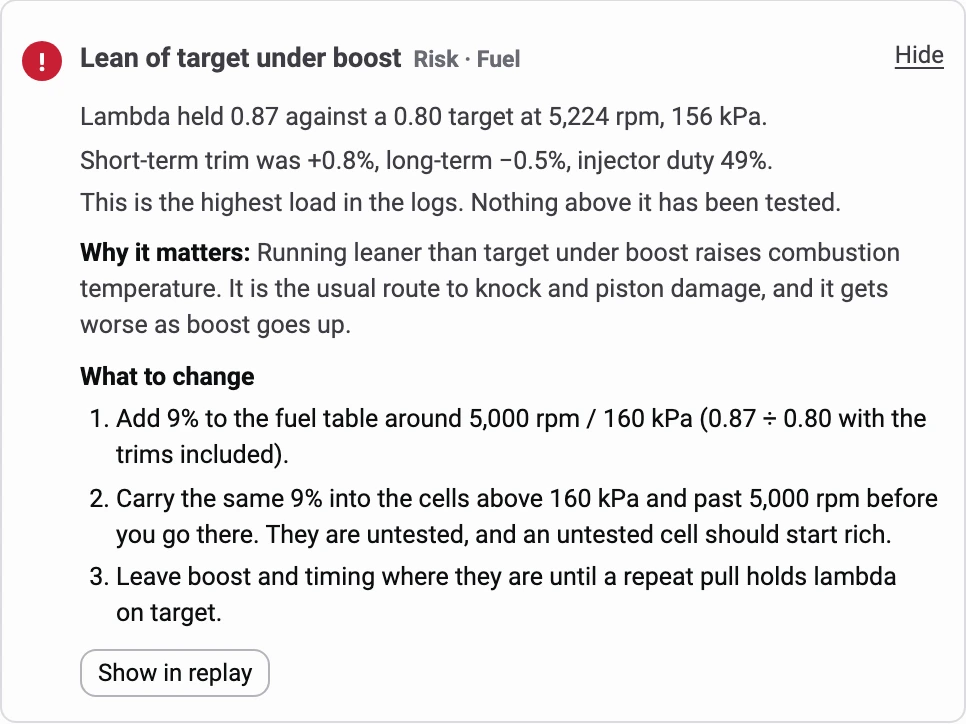
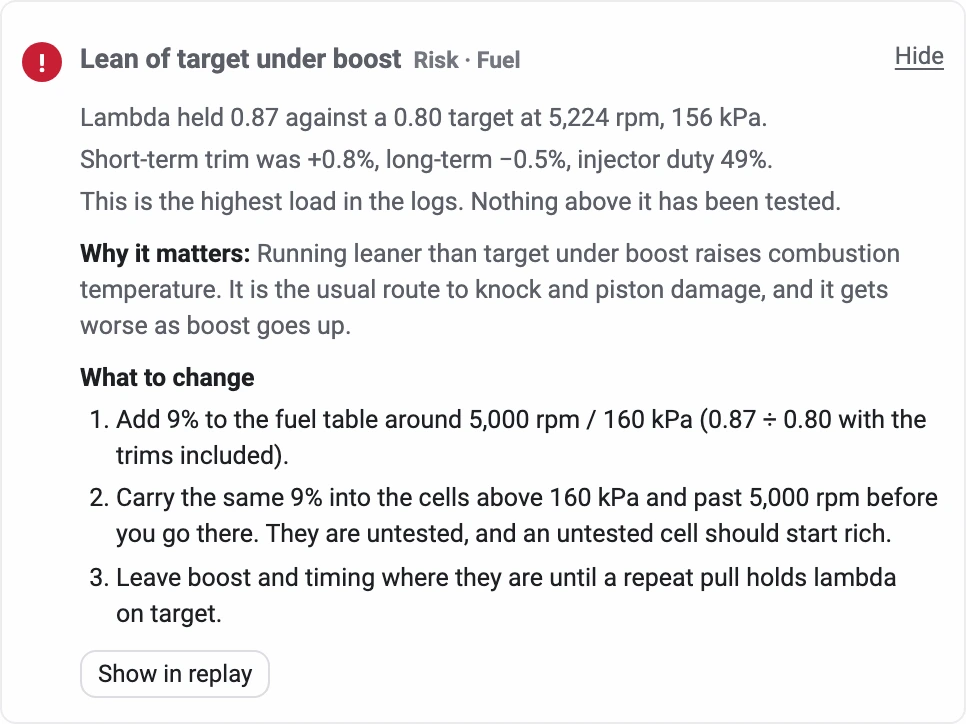
Quieter look for the dashboard: soft neutral greys, pale selected chips
The greys were too intense and the app still read as brutalist. The owner
chose a soft neutral look from three rendered options. Greys are lighter,
a selected control is a pale chip in place of a solid black fill, the
filled button is charcoal, panel titles and figures are Bold, and panels
drop their border for one faint shadow. The page takes the same greys, and
DESIGN.md records the change.

diff --git a/src/styles.css b/src/styles.css
@@ -1,13 +1,16 @@
-/* Colours, type and corners follow DESIGN.md: neutral surfaces, Lato for titles and figures, Roboto for text, corners of 6, 8 and 12px, no shadows.
+/* Colours, type and corners follow DESIGN.md: quiet neutral greys, Lato for titles and figures, Roboto for text, corners of 6, 8 and 12px, pale chips for selected controls.
    Layout: a sticky left rail (logs and pulls) beside a scrolling work column: power chart and table, findings, then replay.
    Vehicle settings live in a dialog. Colours are tokens so light and dark stay in step with the canvas drawing code. */
 :root{
-  --bg:#f4f4f4; --surface:#fcfcfc; --inset:#ececee;
-  --ink:#0d0e10; --ink-2:#3d3d43; --ink-3:#6a6a72;
-  --grid:#dcdce0; --rule:#b4b4bb;
+  --bg:#f6f6f7; --surface:#fdfdfe; --inset:#f1f1f3;
+  --ink:#1d1f23; --ink-2:#5b5e66; --ink-3:#74777f;
+  --grid:#ececef; --rule:#dcdce1;
+  /* a selected control is a pale chip, the filled button is charcoal, and a panel sits on a faint shadow with no border */
+  --sel:#e8e9ed; --sel-ink:#1d1f23; --primary:#2a2c31; --on-primary:#fdfdfe;
+  --panel-edge:transparent; --panel-shadow:0 1px 2px rgb(24 26 30 / .05),0 10px 28px -18px rgb(24 26 30 / .2);
   --run-a:#2a78d6; --run-b:#eb6834; --run-c:#1baf7a;
   /* --crit is the system's redline: risk in findings, and the red bar that ends the header's rule */
-  --good:#0ca30c; --warn:#fab219; --crit:#c81e33; --note:#6a6a72;
+  --good:#0ca30c; --warn:#fab219; --crit:#c81e33; --note:#74777f;
   --seq-lo:#cde2fb; --seq-hi:#0d366b;
   --div-neg:#2a78d6; --div-mid:#e8e8ea; --div-pos:#e34948;
   --font-display:"Lato","Helvetica Neue",Arial,system-ui,sans-serif;
@@ -15,22 +18,26 @@
 }
 @media (prefers-color-scheme: dark){
   :root:not([data-theme="light"]){
-    --bg:#0d0e10; --surface:#17181b; --inset:#222327;
-    --ink:#f4f4f5; --ink-2:#b9b9be; --ink-3:#85858c;
-    --grid:#2a2c31; --rule:#45474e;
+    --bg:#111214; --surface:#1a1b1e; --inset:#232428;
+    --ink:#ececef; --ink-2:#a8abb2; --ink-3:#83868e;
+    --grid:#26272b; --rule:#383a40;
+    --sel:#2e3036; --sel-ink:#f1f1f3; --primary:#e4e5e9; --on-primary:#1d1f23;
+    --panel-edge:#26272b; --panel-shadow:none;
     --run-a:#3987e5; --run-b:#d95926; --run-c:#199e70;
-    --good:#0ca30c; --warn:#fab219; --crit:#e0263c; --note:#85858c;
+    --good:#0ca30c; --warn:#fab219; --crit:#e0263c; --note:#83868e;
     --seq-lo:#0d366b; --seq-hi:#cde2fb;
     --div-neg:#3987e5; --div-mid:#33343a; --div-pos:#e66767;
     color-scheme:dark;
   }
 }
 :root[data-theme="dark"]{
-  --bg:#0d0e10; --surface:#17181b; --inset:#222327;
-  --ink:#f4f4f5; --ink-2:#b9b9be; --ink-3:#85858c;
-  --grid:#2a2c31; --rule:#45474e;
+  --bg:#111214; --surface:#1a1b1e; --inset:#232428;
+  --ink:#ececef; --ink-2:#a8abb2; --ink-3:#83868e;
+  --grid:#26272b; --rule:#383a40;
+  --sel:#2e3036; --sel-ink:#f1f1f3; --primary:#e4e5e9; --on-primary:#1d1f23;
+  --panel-edge:#26272b; --panel-shadow:none;
   --run-a:#3987e5; --run-b:#d95926; --run-c:#199e70;
-  --good:#0ca30c; --warn:#fab219; --crit:#e0263c; --note:#85858c;
+  --good:#0ca30c; --warn:#fab219; --crit:#e0263c; --note:#83868e;
   --seq-lo:#0d366b; --seq-hi:#cde2fb;
   --div-neg:#3987e5; --div-mid:#33343a; --div-pos:#e66767;
   color-scheme:dark;
@@ -56,10 +63,10 @@ ol,ul{list-style:none}
 .rail{position:sticky;top:calc(env(safe-area-inset-top,0px) + 14px);max-height:calc(100vh - 28px);max-height:calc(100dvh - 28px);overflow-y:auto;border-radius:12px;overscroll-behavior:contain}
 .main{grid-template-columns:minmax(0,1.2fr) minmax(0,1fr)}
 .main .full{grid-column:1 / -1}
-.panel{background:var(--surface);border:1px solid var(--grid);border-radius:12px;padding:14px;min-width:0}
+.panel{background:var(--surface);border:1px solid var(--panel-edge);box-shadow:var(--panel-shadow);border-radius:12px;padding:14px;min-width:0}
 .panel-head{display:flex;flex-wrap:wrap;align-items:center;justify-content:space-between;gap:8px 12px;margin-bottom:10px}
 .panel-head .lbl{font-size:12px;color:var(--ink-2)}
-h2{font-family:var(--font-display);font-weight:900;font-size:16px;line-height:1.2}
+h2{font-family:var(--font-display);font-weight:700;font-size:15px;line-height:1.2}
 h3{font-size:12.5px;font-weight:700;color:var(--ink-2);margin:12px 0 8px}
 .hint{color:var(--ink-2);font-size:12.5px}
 .hint,.note,.fhead,.finding li,.finding .why,.empty p{text-wrap:pretty}
@@ -68,17 +75,17 @@ h3{font-size:12.5px;font-weight:700;color:var(--ink-2);margin:12px 0 8px}
 .btn,.seg button,.ab button,.icon-btn,.finding summary{transition:background-color .14s,border-color .14s,color .14s,opacity .14s,transform .14s}
 .btn:active:not(:disabled),.seg button:active,.ab button:active{transform:translateY(1px)}
 .btn:hover{background:var(--inset)}
-.btn.primary{background:var(--ink);color:var(--surface);border-color:var(--ink);font-weight:700}
-.btn.primary:hover{opacity:.88;background:var(--ink)}
+.btn.primary{background:var(--primary);color:var(--on-primary);border-color:var(--primary);font-weight:700}
+.btn.primary:hover{opacity:.88;background:var(--primary)}
 .btn.sm{font-size:12px;padding:4px 8px}
-.btn[aria-pressed="true"]{background:var(--ink);color:var(--surface);border-color:var(--ink);font-weight:700}
+.btn[aria-pressed="true"]{background:var(--sel);color:var(--sel-ink);border-color:var(--rule);font-weight:700}
 .btn:disabled{opacity:.45;cursor:default}
 button:focus-visible,input:focus-visible,select:focus-visible,canvas:focus-visible,summary:focus-visible{outline:2px solid var(--ink);outline-offset:2px}
 .seg{display:inline-flex;border:1px solid var(--rule);border-radius:8px;overflow:hidden}
 .seg button{font:inherit;font-size:12.5px;font-weight:400;color:var(--ink-2);background:var(--surface);border:0;border-left:1px solid var(--rule);padding:5px 10px;cursor:pointer;white-space:nowrap}
 .seg button:first-child{border-left:0}
 .seg button:hover{background:var(--inset);color:var(--ink)}
-.seg button[aria-pressed="true"]{background:var(--ink);color:var(--surface);font-weight:700}
+.seg button[aria-pressed="true"]{background:var(--sel);color:var(--sel-ink);font-weight:700}
 .seg button:focus-visible{outline-offset:-2px}
 input[type="text"],input[type="number"],input[type="search"],select{font:inherit;font-size:13px;font-variant-numeric:tabular-nums;color:var(--ink);background:var(--inset);border:1px solid var(--rule);border-radius:8px;padding:5px 7px;min-width:0}
 
@@ -89,7 +96,7 @@ input[type="text"],input[type="number"],input[type="search"],select{font:inherit
 .meta{color:var(--ink-2);font-size:12px;font-variant-numeric:tabular-nums}
 .pulls{display:grid;gap:5px;margin-top:6px}
 .pull{display:grid;grid-template-columns:minmax(0,1fr) auto;gap:6px 8px;align-items:center;padding:6px 8px;border:1px solid transparent;border-radius:8px}
-.pull.on{background:var(--inset);border-color:var(--rule)}
+.pull.on{background:var(--sel);border-color:transparent}
 .pull .ttl{font-weight:700;font-size:13px;font-variant-numeric:tabular-nums;overflow-wrap:anywhere}
 .ab{display:flex;gap:3px;align-items:center}
 .ab button.r0,.ab button.r1,.ab button.r2{width:26px;height:26px;border-radius:6px;border:1.5px solid var(--rule);background:var(--surface);color:var(--ink-2);font:900 12.5px var(--font-display);cursor:pointer;padding:0}
@@ -154,7 +161,7 @@ details .fields{margin-top:8px}
 .key.mark{width:0;border:5px solid transparent;border-top:0;border-bottom:8px solid var(--ink-2);border-radius:0}
 .key.mark.warn{border-bottom-color:var(--warn)} .key.mark.crit{border-bottom-color:var(--crit)}
 .stat .nums{display:flex;flex-wrap:wrap;align-items:baseline;gap:2px 10px;font-variant-numeric:tabular-nums}
-.stat .big{font-family:var(--font-display);font-weight:900;font-size:24px;line-height:1.1;letter-spacing:-.01em}
+.stat .big{font-family:var(--font-display);font-weight:700;font-size:24px;line-height:1.1;letter-spacing:-.01em}
 .stat .big small{font-size:12px;font-weight:400;letter-spacing:0;color:var(--ink-2);margin-left:3px}
 .stat .at{font-size:12px;color:var(--ink-2)}
 .legend{display:flex;flex-wrap:wrap;gap:4px 14px;font-size:12px;color:var(--ink-2);margin-bottom:4px}
@@ -209,7 +216,7 @@ table{border-collapse:collapse;font-variant-numeric:tabular-nums;font-size:13px}
 .ro.flag .lb::before{content:"";display:inline-block;width:8px;height:8px;border-radius:50%;background:var(--ink-2);margin-right:5px}
 .ro.flag.crit .lb::before{background:var(--crit)} .ro.flag.warn .lb::before{background:var(--warn)}
 .ro .lb{font-size:11.5px;color:var(--ink-2);font-weight:700;overflow:hidden;text-overflow:ellipsis;white-space:nowrap}
-.ro .vl{font-family:var(--font-display);font-weight:900;font-size:21px;line-height:1.2;letter-spacing:-.01em;font-variant-numeric:tabular-nums;white-space:nowrap;overflow:hidden;text-overflow:ellipsis}
+.ro .vl{font-family:var(--font-display);font-weight:700;font-size:21px;line-height:1.2;letter-spacing:-.01em;font-variant-numeric:tabular-nums;white-space:nowrap;overflow:hidden;text-overflow:ellipsis}
 .ro .vl small{font-size:11.5px;font-weight:400;letter-spacing:0;color:var(--ink-2);margin-left:3px}
 
 #tip{position:fixed;z-index:20;pointer-events:none;background:var(--surface);color:var(--ink);border:1px solid var(--rule);border-radius:8px;padding:7px 9px;font-size:12px;font-variant-numeric:tabular-nums;max-width:280px}

diff --git a/site/styles.css b/site/styles.css
@@ -9,18 +9,19 @@
 
 :root{
   color-scheme:light;
-  --canvas:#f4f4f4; --surface-card:#fcfcfc; --surface-elevated:#ececee;
+  --canvas:#f6f6f7; --surface-card:#fdfdfe; --surface-elevated:#f1f1f3;
   /* the colour of a panel in the app's light theme: a screenshot of part of a panel sits on it with no edge */
-  --surface-shot:#fbfcfd;
-  --hairline:#dcdce0; --hairline-strong:#b4b4bb;
-  --ink:#0d0e10; --body:#3d3d43; --muted:#6a6a72;
+  --surface-shot:#fdfdfe;
+  --hairline:#e4e4e8; --hairline-strong:#d0d0d6;
+  /* body is a step darker than the app's secondary text: it is set in a light weight */
+  --ink:#1d1f23; --body:#4b4e56; --muted:#74777f;
   /* the only colour. It marks the end of a rule, as the redline marks the end of a tachometer. Never a fill, never a button. */
   --redline:#c81e33;
   --display:"Lato","Helvetica Neue",Arial,system-ui,sans-serif;
   --text:"Roboto","Helvetica Neue",Arial,system-ui,sans-serif;
   /* corners: tags 6px, controls 8px, panels and frames 12px */
   --r-tag:6px; --r-ui:8px; --r-box:12px;
-  --ink-dim:#2f3136;
+  --ink-dim:#3a3d44;
   --section:96px;
   --ease:cubic-bezier(.16,1,.3,1);
 }

diff --git a/DESIGN.md b/DESIGN.md
@@ -4,15 +4,17 @@ name: log-viewer
 description: A motorsport-engineering interface for a virtual dyno. A quiet neutral canvas, heavy headlines over light body type, soft corners, no shadows. Light by default, with a dark theme. One red, used only as the redline at the end of a rule. Structure after BMW M's system, softened; colour in the black, white and red of works teams such as GR and STI.
 
 colors:
-  canvas: "#f4f4f4"
-  surface-card: "#fcfcfc"
-  surface-elevated: "#ececee"
-  hairline: "#dcdce0"
-  hairline-strong: "#b4b4bb"
-  ink: "#0d0e10"
-  body: "#3d3d43"
-  muted: "#6a6a72"
-  on-ink: "#f4f4f5"
+  canvas: "#f6f6f7"
+  surface-card: "#fdfdfe"
+  surface-elevated: "#f1f1f3"
+  hairline: "#ececef"
+  hairline-strong: "#dcdce1"
+  ink: "#1d1f23"
+  primary: "#2a2c31"
+  on-primary: "#fdfdfe"
+  selected: "#e8e9ed"
+  body: "#5b5e66"
+  muted: "#74777f"
   redline: "#c81e33"
   run-a: "#2a78d6"
   run-b: "#eb6834"
@@ -53,7 +55,7 @@ This file is the source of truth for how it looks, on the website in `site/` and
 
 ## 1. Visual theme and atmosphere
 
-Motorsport engineering, not consumer tech. A quiet neutral canvas, heavy black headlines, hairlines, soft corners. Light is the default; a dark theme mirrors it.
+Motorsport engineering, not consumer tech. A quiet neutral canvas, light greys, soft corners. The app is a dashboard, so nothing in it shouts: no strong outlines, no solid black selected states. Light is the default; a dark theme mirrors it.
 The interface has no decoration of its own. Its energy comes from the data: the power curves, the tables, the findings, shown large and edge to edge.
 The structure follows BMW M's system, softened: its square corners and capitals everywhere read as brutalist, so corners are rounded and headlines are sentence case. The colour does not follow it: it is the black, white and single red of works teams such as GR and STI.
 
@@ -63,15 +65,17 @@ Light is the default theme, on the site and in the app. The dark theme keeps eve
 
 | Token | Light | Dark | Role |
 |---|---|---|---|
-| `canvas` | #f4f4f4 | #0d0e10 | The page. Never pure white or pure black. |
-| `surface-card` | #fcfcfc | #17181b | A panel. Elevation is a different surface, never a shadow. |
-| `surface-elevated` | #ececee | #222327 | A control resting on a panel. |
-| `hairline` | #dcdce0 | #2a2c31 | Dividers and panel edges. |
-| `hairline-strong` | #b4b4bb | #45474e | Outlines of controls and tags. |
-| `ink` | #0d0e10 | #f4f4f5 | Headlines, labels, the filled button. |
-| `on-ink` | #f4f4f5 | #0d0e10 | Text on an ink fill. |
-| `body` | #3d3d43 | #b9b9be | Running text. |
-| `muted` | #6a6a72 | #85858c | Captions and entries that are not active. |
+| `canvas` | #f6f6f7 | #111214 | The page. Never pure white or pure black. |
+| `surface-card` | #fdfdfe | #1a1b1e | A panel. |
+| `surface-elevated` | #f1f1f3 | #232428 | A control resting on a panel. |
+| `hairline` | #ececef | #26272b | Dividers and panel edges. |
+| `hairline-strong` | #dcdce1 | #383a40 | Outlines of controls and tags. |
+| `ink` | #1d1f23 | #ececef | Headlines, labels and figures. |
+| `primary` | #2a2c31 | #e4e5e9 | The filled button. |
+| `selected` | #e8e9ed | #2e3036 | A selected control: a pale chip, never a solid dark fill. |
+| `on-primary` | #fdfdfe | #1d1f23 | Text on the filled button. |
+| `body` | #5b5e66 | #a8abb2 | Running text. |
+| `muted` | #74777f | #83868e | Captions and entries that are not active. |
 | `redline` | #c81e33 | #e0263c | The only brand colour. |
 | `run-a` | #2a78d6 | #3987e5 | Data only: the first overlaid pull. |
 | `run-b` | #eb6834 | #d95926 | Data only: the second. |
@@ -84,7 +88,7 @@ The run colours are for data only. A finding is `redline` for risk, `check`, `ok
 
 ## 3. Typography
 
-Two families. **Lato** Black (900) and Bold (700) for headlines, panel titles and big figures: the stamped voice, and the face of the app's wordmark.
+Two families. **Lato** for headlines, panel titles and big figures. Black (900) is for the wordmark and the page's headlines; in the app, panel titles and figures are Bold (700).
 **Roboto** for everything read as text: 300 at reading sizes, 400 in the dense app, 700 for labels.
 
 - Headlines are sentence case. Capitals are kept for the wordmark only.
@@ -95,10 +99,11 @@ Two families. **Lato** Black (900) and Bold (700) for headlines, panel titles an
 
 ## 4. Components
 
-- **Button.** Flat, 48px tall, 8px corners. Primary: `ink` fill, `on-ink` text, a shade dimmer on hover. Secondary: clear with a `hairline-strong` outline that turns `ink` on hover. One primary per view.
+- **Button.** Flat, 8px corners, 48px tall on the page. Primary: `primary` fill, `on-primary` text, a shade dimmer on hover.
+- **Selected control.** A `selected` chip with `ink` text in bold. Used by segmented controls, toggles and the chosen pull. Secondary: clear with a `hairline-strong` outline that turns `ink` on hover. One primary per view.
 - **Text link.** Bold text with an arrow and a quiet underline that brightens on hover.
 - **Redline rule.** A 1px `hairline` across the container that ends in a `redline` bar 4px tall and about 9% long. It marks a major division, at most once per screen. It is the only decorative element in the system.
-- **Panel.** `surface-card`, 1px `hairline`, 12px corners. Title in `title`.
+- **Panel.** `surface-card`, 12px corners, no border, one faint shadow in the light theme and a `hairline` edge in the dark theme. Title in `title`.
 - **Screenshot.** The app itself, on real logs, never a drawing of it. A whole window gets a `hairline` frame with 12px corners. A panel is placed straight on the canvas.
 - **Chart of supported ECUs.** One list in columns. A supported entry is `ink`, bold, with a check; the rest are `muted`.
 - **Status tag.** 13px bold text in a `hairline-strong` outline with 6px corners, for "Coming soon" and "Next".
@@ -110,7 +115,7 @@ One message per section: a headline, at most two sentences, one visual.
 
 ## 6. Depth and elevation
 
-No shadows, no gradients, no glow. Three levels only: canvas, card, elevated control. Hairlines do the separating.
+One faint shadow, under panels in the light theme. No other shadow, no gradient, no glow. Three levels only: canvas, card, elevated control.
 
 ## 7. Do and don't
 
@@ -118,7 +123,8 @@ No shadows, no gradients, no glow. Three levels only: canvas, card, elevated con
 - Do keep the red to the redline and to risk. If something else wants colour, it is data: use the run colours.
 - Do use the three radii: `tag` 6px, `control` 8px, `box` 12px. `full` is for round icon buttons.
 - Don't use the red on a button, a link, a background or a headline.
-- Don't add shadows, gradients or glows.
+- Don't add a shadow beyond the panel's, and no gradients or glows.
+- Don't use strong grey outlines or solid black selected states.
 - Don't set headlines or buttons in capitals, and don't set body text in bold.
 - Don't use metaphors in copy. Call things what they are.
 
@@ -130,5 +136,5 @@ Below 720px the findings panel is replaced by one finding. Touch targets are at 
 ## 9. Agent prompt guide
 
 - "Build a section for the Log Viewer site: sentence-case Lato Black headline, two sentences of Roboto Light, one real screenshot on the canvas, 12px corners, no shadows, no colour except data."
-- "Restyle this app panel to the system: `surface-card`, 1px `hairline`, 12px corners, title in `title`, figures in the display face with tabular numbers."
+- "Restyle this app panel to the system: `surface-card`, 12px corners, no border, the panel shadow, title in `title`, figures in the display face with tabular numbers."
 - Before shipping, check: is the red anywhere other than a redline or a risk? Is any corner square, or rounder than 12px? Is any headline in capitals?

diff --git a/CLAUDE.md b/CLAUDE.md
@@ -38,10 +38,10 @@ See README.md for layout, commands and log import paths.
   Owner call 2026-10-04: changes to the site can be committed and pushed as they are made ("it can just be updated live"). That covers `site/` and what it needs; other commits and pushes still wait to be asked for.
   It calls the app a virtual dyno and does not tie itself to NSP: the "Supported ECUs" chart lists the Virtual Dyno formats, with a check on each one the app reads (Haltech today). Add `class="yes"` and the check icon to an `<li>` when a format lands.
 - Design system: `DESIGN.md` is the source of truth for the look of the site and the app (owner call 2026-10-04). Structure after BMW M's DESIGN.md from github.com/VoltAgent/awesome-design-md, colour after works teams such as GR and STI: a neutral canvas, heavy sentence-case Lato headlines over Roboto Light, soft corners (6, 8 and 12px), no shadows, and one red used only as the redline at the end of a rule and for risk.
-  The owner rejected the app's grey-blue and an orange accent on the page, did not want BMW's colours, and rejected Saira Condensed for headlines: Lato for display and Roboto for text are the owner's choice. The first version, with square corners and capitals everywhere, was too brutalist for the owner; it was softened the same day.
+  The owner rejected the app's grey-blue and an orange accent on the page, did not want BMW's colours, and rejected Saira Condensed for headlines: Lato for display and Roboto for text are the owner's choice. The first version, with square corners and capitals everywhere, was too brutalist for the owner; it was softened the same day. The greys were then too intense for a dashboard, so the owner chose look A, soft neutral, from three rendered options: light quiet greys, no strong outlines, no solid black selected states.
   The same system is saved as a Claude design system at https://claude.ai/artifact/9cvuybFUMqs3w78teUsVsb (tokens, brand book, fonts, cover; no components yet).
   Light is the default theme (owner call 2026-10-04, after seeing a dark-only page). The site follows the system and is light for every visitor; the dark theme stays defined for the app's dark mode.
-  The app follows it since 2026-10-04: the system's values sit under the app's existing CSS variable names (`--bg`, `--surface`, `--ink`, `--grid`, `--rule`; `--crit` is the redline), Lato sets titles and figures and Roboto the text (`@fontsource/roboto`), corners are 6, 8 and 12px, there are no shadows, panel titles and tags are sentence case, and the header's rule ends in the redline.
+  The app follows it since 2026-10-04: the system's values sit under the app's existing CSS variable names (`--bg`, `--surface`, `--ink`, `--grid`, `--rule`; `--crit` is the redline), Lato sets titles and figures and Roboto the text (`@fontsource/roboto`), corners are 6, 8 and 12px, panels have no border and sit on one faint shadow, selected controls are pale chips, panel titles and tags are sentence case, and the header's rule ends in the redline.
   The page describes only what has been checked: nothing about AirDrop or iPhone-specific import.
 - Replay: show on/off and state channels as rows on the timeline instead of line graphs, appearing on their own for any switch that changes during the pull. Being designed, not built.
 - App UI pass with `redesign-existing-projects`, 2026-10-04. Applied: hover, press and transition states on controls, sentence-case subheads, `text-wrap: pretty` on prose, a car icon on the Vehicle button (Phosphor, as on the website), the 3D table growing to fill its panel, and a refused duplicate naming the file once.
